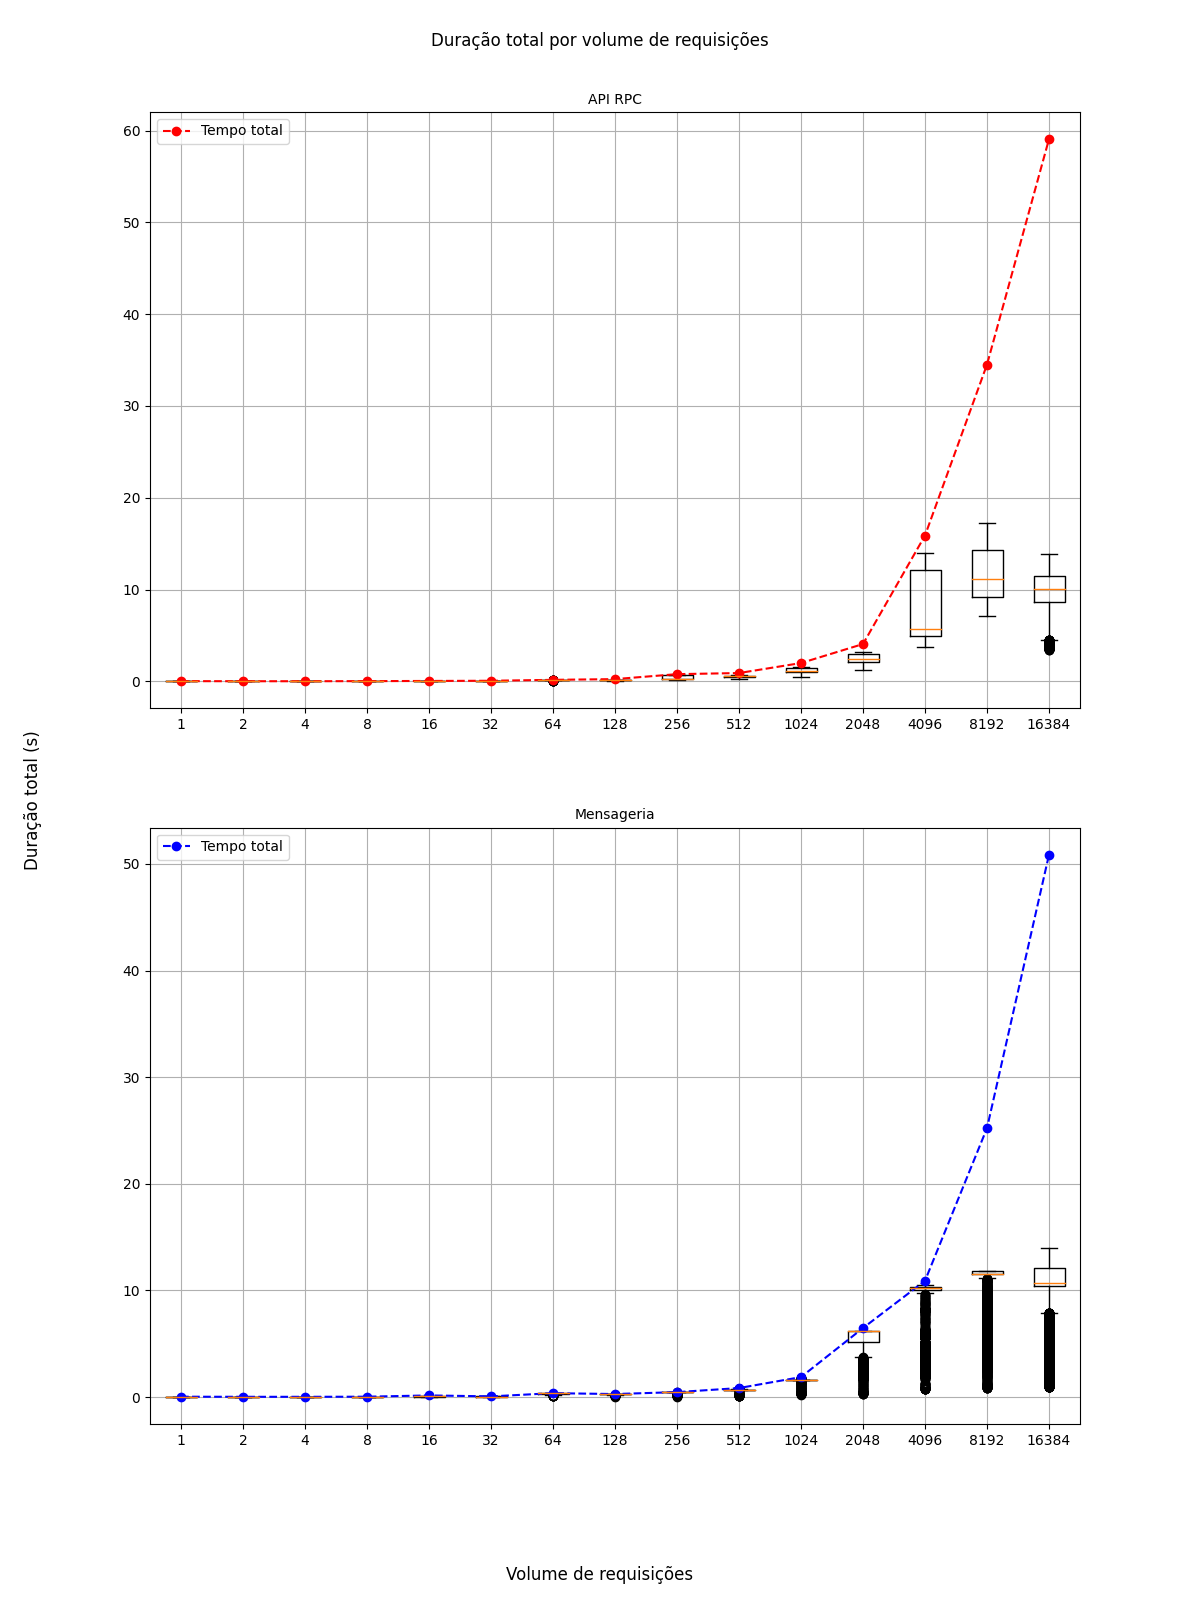
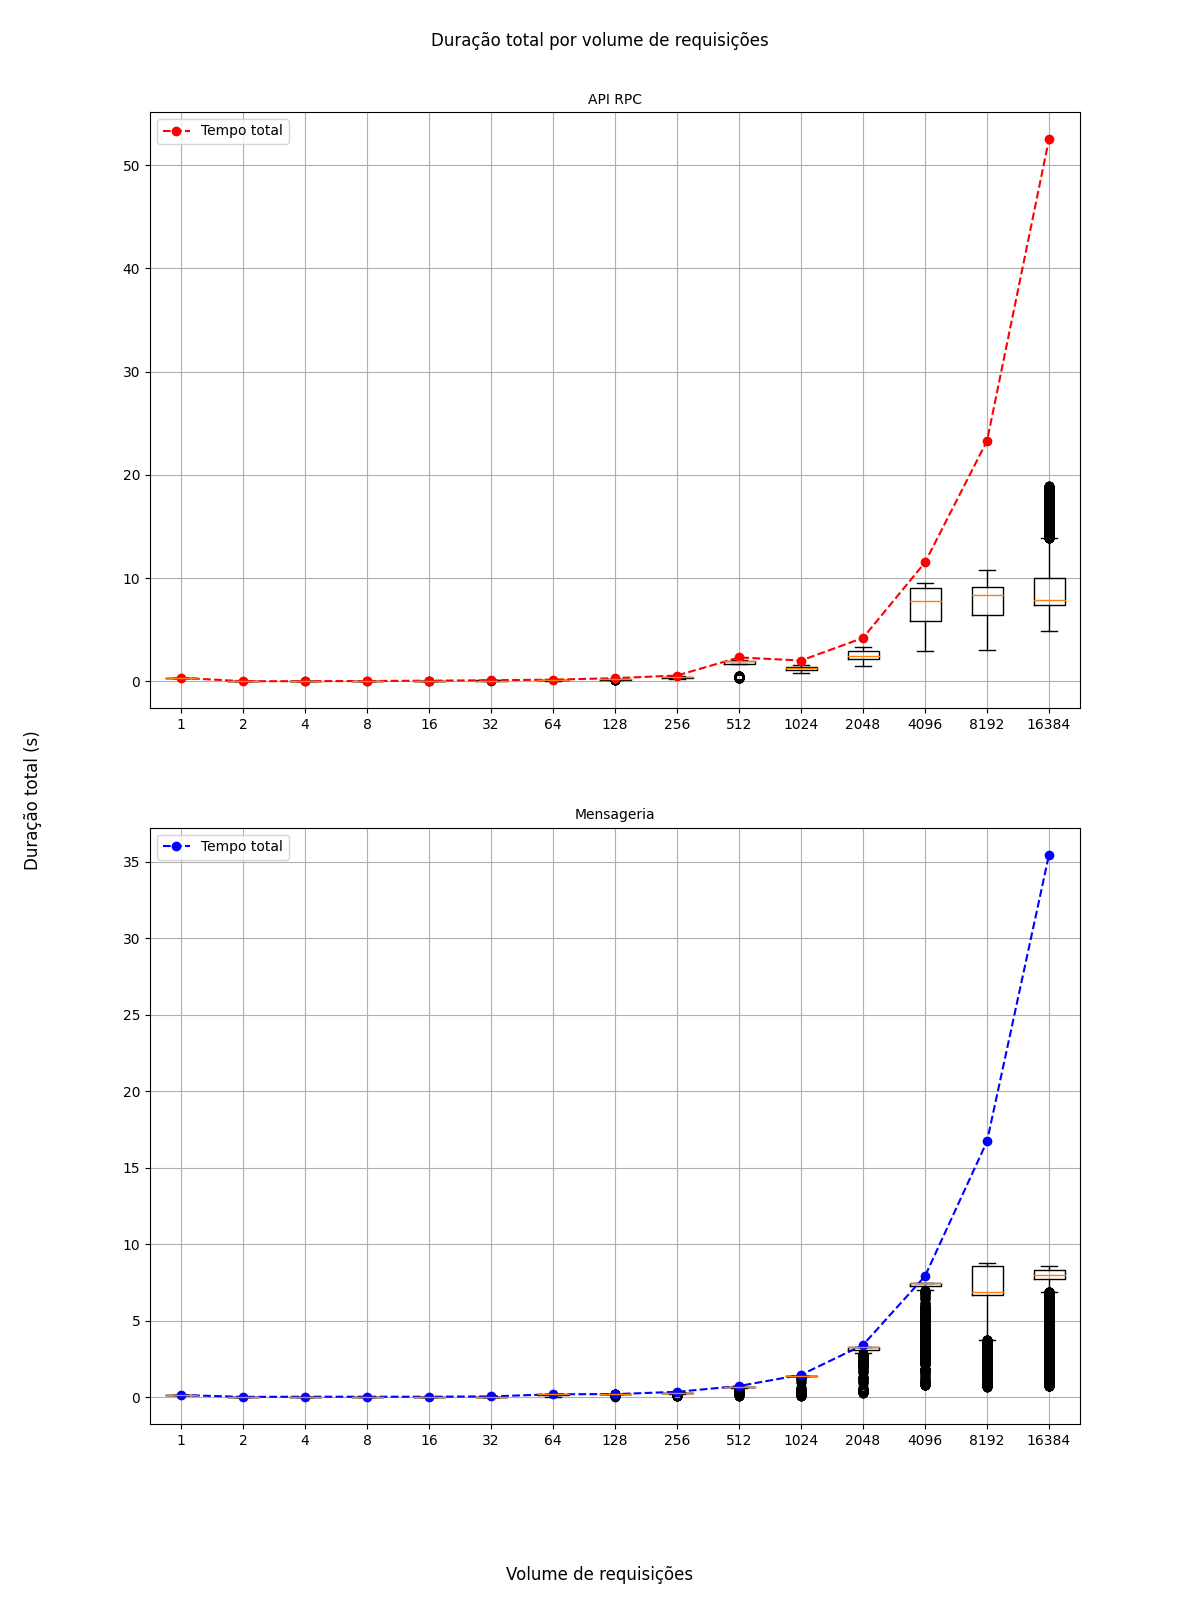
chore: update experiments

diff --git a/experiments/2/script.py b/experiments/2/script.py
@@ -1,6 +1,10 @@
+from time import sleep
 import click
 import numpy as np
 import matplotlib.pyplot as plt
+import numpy as np
+from matplotlib import colors
+from matplotlib.ticker import PercentFormatter
 
 from benchmark.application import app, types, config
 from benchmark.application.types import BenchmarkParams
@@ -8,9 +12,48 @@ from benchmark.application.types import BenchmarkParams
 
 flatten = lambda lst: [item for sublist in lst for item in sublist]
 timings = lambda results: [
-    [t.end - t.start for t in result.response_list]
-    for result in results
+    [t.end - t.start for t in result.response_list] for result in results
 ]
+
+
+def plot_histogram(
+    api_results,
+    msg_results,
+    x_values,
+    x_legend,
+    y_legend,
+    title,
+    file_prefix,
+    show=False,
+    save=True,
+):
+    api_elapsed_times = flatten(timings(api_results))
+    msg_elapsed_times = flatten(timings(msg_results))
+
+    fig, axs = plt.subplots(1, 2, sharey=True, tight_layout=True)
+
+    axs[0].hist(api_elapsed_times)
+    axs[1].hist(msg_elapsed_times)
+
+    axs[0].set_title("API RPC", fontsize=10)
+    axs[1].set_title("Mensageria", fontsize=10)
+
+    axs[0].grid(True)
+    axs[1].grid(True)
+
+    fig.supxlabel(x_legend)
+    fig.supylabel(y_legend)
+    fig.suptitle(title)
+    fig.subplots_adjust(top=0.93, hspace=0.2, wspace=0.2)
+
+    if save:
+        plt.savefig(f"plots/{file_prefix}_histogram.png")
+
+    if show:
+        plt.show()
+    else:
+        plt.close()
+
 
 def plot_total_bloxplot_timings(
     api_results,
@@ -79,13 +122,15 @@ def plot_total_timings(
         return [result.elapsed_time for result in results]
 
     plt.plot(x_values, get_result_timings(api_results), ":r", label="API RPC")
-    plt.plot(x_values, get_result_timings(msg_results), "--b", label="Mensageria")
+    plt.plot(
+        x_values, get_result_timings(msg_results), "--b", label="Mensageria"
+    )
     plt.legend()
     plt.grid(True)
     plt.xlabel(x_legend)
     plt.ylabel(y_legend)
     plt.title(title)
-    plt.yscale("log", base=10)
+    # plt.yscale("log", base=10)
     plt.xscale("log", base=2)
     if save:
         plt.savefig(f"plots/{file_prefix}_test_total.png")
@@ -118,14 +163,17 @@ def plot_mean_timings(
         x_values, get_mean_request_timings(api_results), ":r", label="API RPC"
     )
     plt.plot(
-        x_values, get_mean_request_timings(msg_results), "--b", label="Mensageria"
+        x_values,
+        get_mean_request_timings(msg_results),
+        "--b",
+        label="Mensageria",
     )
     plt.legend()
     plt.grid(True)
     plt.xlabel(x_legend)
     plt.ylabel(y_legend)
     plt.title(title)
-    plt.yscale("log", base=10)
+    # plt.yscale("log", base=10)
     plt.xscale("log", base=2)
 
     if save:
@@ -159,14 +207,17 @@ def plot_throughput(
         x_values, get_requests_per_second(api_results), ":r", label="API RPC"
     )
     plt.plot(
-        x_values, get_requests_per_second(msg_results), "--b", label="Mensageria"
+        x_values,
+        get_requests_per_second(msg_results),
+        "--b",
+        label="Mensageria",
     )
     plt.legend()
     plt.xlabel(x_legend)
     plt.ylabel(y_legend)
     plt.title(title)
     plt.grid(True)
-    plt.yscale("log", base=10)
+    # plt.yscale("log", base=10)
     plt.xscale("log", base=2)
     plt.xticks(x_values)
 
@@ -196,7 +247,10 @@ def plot_std_timings(
         x_values, get_standard_deviation(api_results), ":r", label="API RPC"
     )
     plt.plot(
-        x_values, get_standard_deviation(msg_results), "--b", label="Mensageria"
+        x_values,
+        get_standard_deviation(msg_results),
+        "--b",
+        label="Mensageria",
     )
 
     plt.legend()
@@ -239,7 +293,14 @@ def plot_wrapper(plot_func, x_legend, y_legend, title):
     return wrapper
 
 
-def get_bechmark_params(benchmark_type, parameter, range_values, fixed_requests_number):
+def get_bechmark_params(
+    benchmark_type,
+    parameter,
+    range_values,
+    fixed_requests_number,
+    fixed_runtime,
+):
+
     default_params = dict(
         benchmark_type=benchmark_type,
         complexity_factor=1,
@@ -248,14 +309,21 @@ def get_bechmark_params(benchmark_type, parameter, range_values, fixed_requests_
         batch_size=fixed_requests_number,
         batch_progress=False,
         total_progress=True,
+        runtime=fixed_runtime,
     )
 
-    def update(parameter, value):
+    def update(parameter, value, defaults):
         default_params[parameter] = value
+        default_params.update(defaults)
         return default_params
 
+    parameter_range, defaults = range_values(
+        parameter, fixed_requests_number, fixed_runtime
+    )
+
     return [
-        BenchmarkParams(**update(parameter, value)) for value in range_values
+        BenchmarkParams(**update(parameter, value_range, defaults))
+        for value_range in parameter_range
     ]
 
 
@@ -264,10 +332,23 @@ def run(params, env):
 
 
 def plot_results(
-    plots, api_results, msg_results, benchmark_range, parameter, show=False, save=True
+    plots,
+    api_results,
+    msg_results,
+    benchmark_range,
+    parameter,
+    show=False,
+    save=True,
 ):
     for plot in plots:
-        plot(api_results, msg_results, benchmark_range, parameter, show=show, save=save)
+        plot(
+            api_results,
+            msg_results,
+            benchmark_range,
+            parameter,
+            show=show,
+            save=save,
+        )
 
 
 ANALYSIS_TYPE = {
@@ -302,6 +383,44 @@ ANALYSIS_TYPE = {
             y_legend="Duração total (s)",
             title="Duração total por volume de requisições",
         ),
+        plot_wrapper(
+            plot_histogram,
+            x_legend="Frequência",
+            y_legend="Duração total (s)",
+            title="Histograma da duração das requisições",
+        ),
+    ),
+    "runtime": (
+        plot_wrapper(
+            plot_total_timings,
+            x_legend="Tempo de execusão",
+            y_legend="Duração (s)",
+            title="Duração total por volume de requisições",
+        ),
+        plot_wrapper(
+            plot_mean_timings,
+            x_legend="Tempo de execusão",
+            y_legend="Duração média (s)",
+            title="Duração média por tempo de execusão",
+        ),
+        plot_wrapper(
+            plot_std_timings,
+            x_legend="Tempo de execusão",
+            y_legend="Desvio padrão",
+            title="Desvio padrão por tempo de execusão",
+        ),
+        plot_wrapper(
+            plot_throughput,
+            x_legend="Tempo de execusão",
+            y_legend="Req/s",
+            title="Requisições por segundo",
+        ),
+        plot_wrapper(
+            plot_total_bloxplot_timings,
+            x_legend="Tempo de execusão",
+            y_legend="Duração total (s)",
+            title="Duração total por tempo de execusão",
+        ),
     ),
     "memory_overhead": (
         plot_wrapper(
@@ -333,6 +452,12 @@ ANALYSIS_TYPE = {
             x_legend="Complexidade de memória",
             y_legend="Duração total (s)",
             title="Duração total das requisições por complexidade de memória",
+        ),
+        plot_wrapper(
+            plot_histogram,
+            x_legend="Frequência",
+            y_legend="Duração total (s)",
+            title="Histograma da duração das requisições em relação à complexidade de memória",
         ),
     ),
     "complexity_factor": (
@@ -366,28 +491,45 @@ ANALYSIS_TYPE = {
             y_legend="Duração total (s)",
             title="Requisições por segundo por complexidade computacional",
         ),
+        plot_wrapper(
+            plot_histogram,
+            x_legend="Frequência",
+            y_legend="Duração total (s)",
+            title="Histograma da duração das requisições em relação à complexidade computacional",
+        ),
     ),
 }
 
 
-def main(benchmark_range_callback, env, fixed_requests_number, show_plots=False, save_plots=True):
+def main(
+    benchmark_range_callback,
+    env,
+    fixed_requests_number,
+    fixed_runtime,
+    show_plots=False,
+    save_plots=True,
+):
     results = []
-    ttests = []
     for parameter, plots in ANALYSIS_TYPE.items():
-        print("parameter", parameter)
+        print("Parameter", parameter)
         api_params = get_bechmark_params(
             types.BenchmarkTypes.API,
             parameter,
-            benchmark_range_callback(parameter),
-            fixed_requests_number
+            benchmark_range_callback,
+            fixed_requests_number,
+            fixed_runtime,
         )
         msg_params = get_bechmark_params(
             types.BenchmarkTypes.MSG,
             parameter,
-            benchmark_range_callback(parameter),
-            fixed_requests_number
+            benchmark_range_callback,
+            fixed_requests_number,
+            fixed_runtime,
         )
+        print("running for API...")
         api_results = run(api_params, env)
+
+        print("running for MSG...")
         msg_results = run(msg_params, env)
 
         results.append(
@@ -395,16 +537,16 @@ def main(benchmark_range_callback, env, fixed_requests_number, show_plots=False,
                 plots,
                 api_results,
                 msg_results,
-                benchmark_range_callback(parameter),
+                benchmark_range_callback(parameter)[0],
                 parameter,
                 show_plots,
-                save_plots
+                save_plots,
             ]
         )
+        sleep(5)
 
     for result in results:
         plot_results(*result)
-
 
 
 @click.command()
@@ -422,20 +564,48 @@ def main(benchmark_range_callback, env, fixed_requests_number, show_plots=False,
 @click.option("--complexity_factor", "-cf", type=int, default=11)
 @click.option("--requests_number", "-rn", type=int, default=15)
 @click.option("--fixed_requests_number", "-fr", type=int, default=4096)
+@click.option("--fixed_runtime", "-ft", type=int, default=None)
+@click.option("--runtime", "-rt", type=int, default=2)
 @click.option("--save", is_flag=True)
 @click.option("--show", is_flag=True)
-def cli(env, memory_overhead, complexity_factor, requests_number, fixed_requests_number, save, show):
-
-    def range_callback(parameter):
+def cli(
+    env,
+    memory_overhead,
+    complexity_factor,
+    requests_number,
+    fixed_requests_number,
+    fixed_runtime,
+    runtime,
+    save,
+    show,
+):
+    def range_callback(
+        parameter, fixed_requests_number=None, fixed_runtime=None
+    ):
         match parameter:
             case "memory_overhead":
-                return [2**i for i in range(memory_overhead)]
+                return [2**i for i in range(memory_overhead)], {}
             case "complexity_factor":
-                return [2**i for i in range(complexity_factor)]
+                return [2**i for i in range(complexity_factor)], {}
             case "requests_number":
-                return [2**i for i in range(requests_number)]
+                return [2**i for i in range(requests_number)], {}
+            case "runtime":
+                return [2 * i for i in range(1, runtime)], {
+                    "requests_number": None
+                }
 
-    main(range_callback, env, fixed_requests_number, show_plots=show, save_plots=save)
+    if fixed_runtime is not None:
+        fixed_requests_number = None
+
+    main(
+        range_callback,
+        env,
+        fixed_requests_number,
+        fixed_runtime,
+        show_plots=show,
+        save_plots=save,
+    )
+
 
 if __name__ == "__main__":
     cli()
